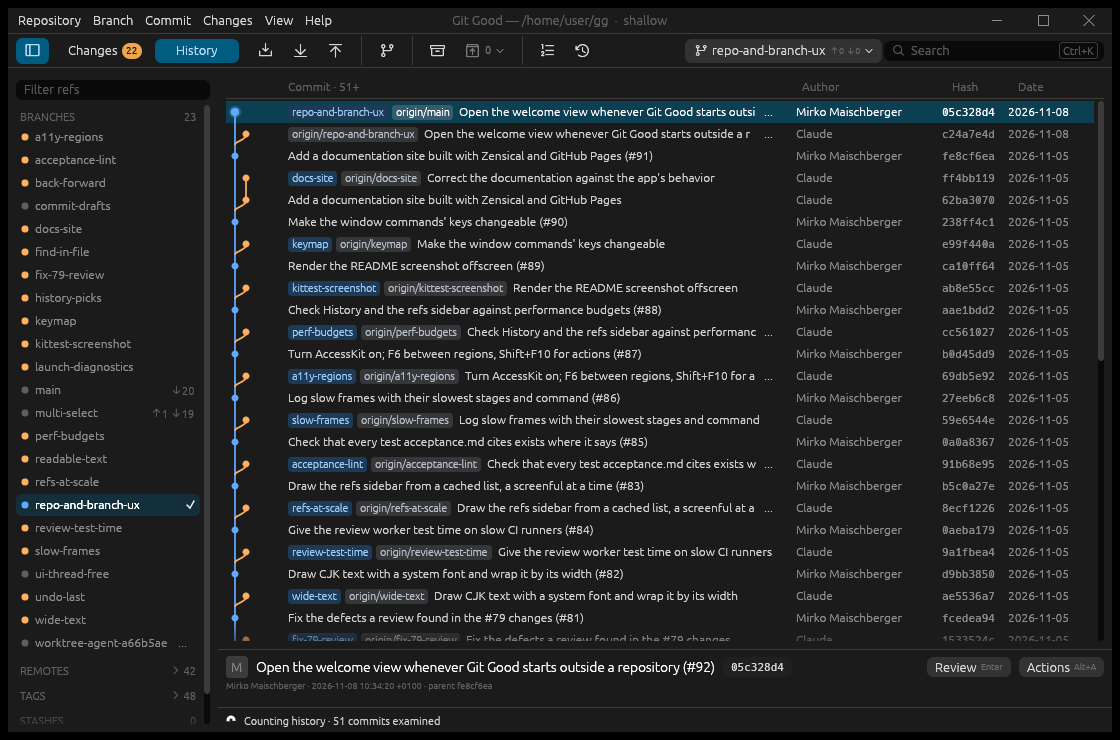
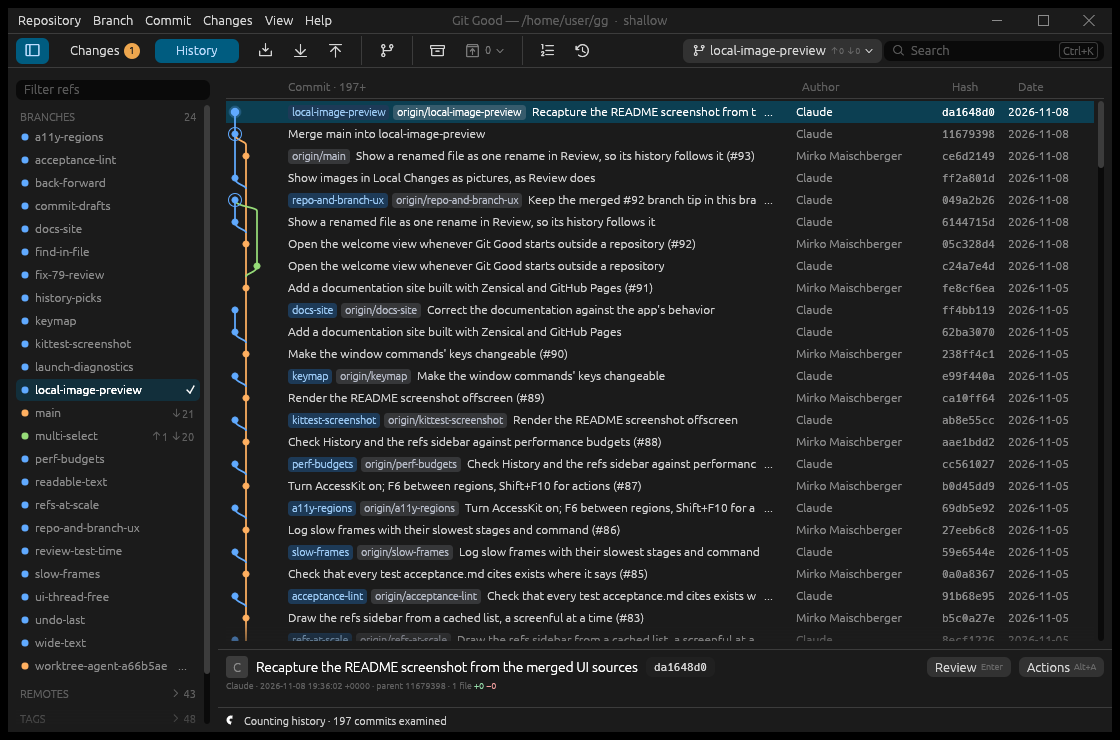
Show images in Local Changes as pictures, as Review does (#94)
* Show images in Local Changes as pictures, as Review does

An untracked docs/images/muffin-farro.jpeg showed "Binary content ·
No inline preview" in Diff and "Binary content" in Full file. The diff
worker built the image preview only for Review, whose sides are blobs.

gg_git::working_diff::preview_bytes now reads a working comparison's
sides (staged: base tree and index; unstaged: index and the working
file; untracked: the working file), and binary_preview::read_working
decodes them, so Local Changes shows the same image comparison. The
header names each side's source: Before HEAD/index, After index/working.

Claude-Session: https://claude.ai/code/session_01WX3sFiNbkTC6gZUVCPGT3o

* Recapture the README screenshot from the merged UI sources

Claude-Session: https://claude.ai/code/session_01WX3sFiNbkTC6gZUVCPGT3o

* Wait for the worktrees window to show its list before reading it

worktrees_window_prunes_missing_and_locks_with_a_reason failed on the
macOS Intel runner: it stopped waiting once the list was loaded, but the
list can arrive after that frame's window was drawn, so the text it
checked showed no window yet. The listing and lock steps now also wait
for a frame that shows "Missing" and "Locked".

Claude-Session: https://claude.ai/code/session_01WX3sFiNbkTC6gZUVCPGT3o

---------

diff --git a/crates/git/src/working_diff.rs b/crates/git/src/working_diff.rs
@@ -288,6 +288,139 @@ fn read_side_inner(
     Ok(side)
 }
 
+/// One side of a working comparison as raw bytes, for the image and
+/// hexadecimal preview of binary files.
+#[derive(Debug, PartialEq, Eq)]
+pub enum PreviewBytes {
+    /// Exact bytes: a blob, or the working file as it is on disk.
+    Bytes(Vec<u8>),
+    /// Nothing on this side, and why.
+    Absent(String),
+    /// Larger than the preview budget; the size in bytes.
+    OverLimit(u64),
+    /// A submodule commit, not file content.
+    Gitlink,
+}
+
+/// Read one side of the selected working comparison for a binary preview,
+/// within `limit` bytes. The sides are those of [`read_side`]: staged
+/// compares the base tree with the index; unstaged the index with the
+/// working file; untracked nothing with the working file. The working file
+/// is read as it is on disk, without Git's filters.
+pub fn preview_bytes(
+    request: &WorkingRequest,
+    side: ReadingSide,
+    limit: u64,
+    cancelled: impl Fn() -> bool,
+) -> std::result::Result<PreviewBytes, String> {
+    preview_bytes_inner(request, side, limit, &cancelled).map_err(|error| {
+        format!(
+            "Read {} of {}: {error}",
+            side.label().to_lowercase(),
+            request.entry.path
+        )
+    })
+}
+
+fn preview_bytes_inner(
+    request: &WorkingRequest,
+    side: ReadingSide,
+    limit: u64,
+    cancelled: &dyn Fn() -> bool,
+) -> Result<PreviewBytes> {
+    if cancelled() {
+        return Err("Read cancelled".into());
+    }
+    let repo = gix::discover(&request.repository.path)?;
+    let relative = gix::path::from_bstr(gix::bstr::BStr::new(&request.entry.path_bytes))?;
+    if relative.as_os_str().is_empty()
+        || relative
+            .components()
+            .any(|part| !matches!(part, Component::Normal(_)))
+    {
+        return Err("Use a repository-relative file path".into());
+    }
+    if request.entry.area == Area::Conflict {
+        return Ok(PreviewBytes::Absent("Unmerged path".into()));
+    }
+    let index = repo.index_or_empty()?;
+    let index_side = index
+        .entry_by_path(gix::bstr::BStr::new(&request.entry.path_bytes))
+        .filter(|entry| {
+            !entry
+                .flags
+                .contains(gix::index::entry::Flags::INTENT_TO_ADD)
+        })
+        .map(|entry| FileSide {
+            id: entry.id.to_string(),
+            mode: entry.mode.bits() as u16,
+        });
+    let blob = |file: Option<FileSide>| -> Result<PreviewBytes> {
+        let Some(file) = file else {
+            return Ok(PreviewBytes::Absent("No content on this side".into()));
+        };
+        if file.mode == 0o160000 {
+            return Ok(PreviewBytes::Gitlink);
+        }
+        let id = gix::ObjectId::from_hex(file.id.as_bytes())?;
+        let size = repo.find_header(id)?.size();
+        if size > limit {
+            return Ok(PreviewBytes::OverLimit(size));
+        }
+        if cancelled() {
+            return Err("Read cancelled".into());
+        }
+        Ok(PreviewBytes::Bytes(repo.find_blob(id)?.data.clone()))
+    };
+    let bytes = match (request.entry.area, side) {
+        (Area::Staged, ReadingSide::Before) => {
+            let tree = if let Some(base) = &request.repository.base_tree {
+                Some(repo.find_tree(gix::ObjectId::from_hex(base.as_bytes())?)?)
+            } else if let Some(head) = &request.repository.head {
+                Some(
+                    repo.find_commit(gix::ObjectId::from_hex(head.as_bytes())?)?
+                        .tree()?,
+                )
+            } else {
+                None
+            };
+            let before = match tree {
+                Some(tree) => tree.lookup_entry_by_path(&relative)?.map(|entry| FileSide {
+                    id: entry.id().to_string(),
+                    mode: entry.mode().value(),
+                }),
+                None => None,
+            };
+            blob(before)?
+        }
+        (Area::Staged, ReadingSide::After) => blob(index_side)?,
+        (Area::Untracked, ReadingSide::Before) => {
+            PreviewBytes::Absent("Untracked: no earlier content".into())
+        }
+        (_, ReadingSide::Before) => blob(index_side)?,
+        (_, ReadingSide::After) => {
+            if index_side
+                .as_ref()
+                .is_some_and(|side| side.mode == 0o160000)
+            {
+                PreviewBytes::Gitlink
+            } else {
+                match capture(&request.repository.path, &relative, Some(limit))? {
+                    None => PreviewBytes::Absent("Working file absent".into()),
+                    Some(captured) if captured.size > limit => {
+                        PreviewBytes::OverLimit(captured.size)
+                    }
+                    Some(captured) => PreviewBytes::Bytes(captured.bytes),
+                }
+            }
+        }
+    };
+    if cancelled() {
+        return Err("Read cancelled".into());
+    }
+    Ok(bytes)
+}
+
 fn read_tree_side(
     request: &WorkingRequest,
     repo: &gix::Repository,

diff --git a/apps/git-good/src/status_view.rs b/apps/git-good/src/status_view.rs
@@ -4911,6 +4911,98 @@ mod tests {
     }
 
     #[test]
+    fn an_untracked_and_a_modified_image_show_their_pictures()
+    -> Result<(), Box<dyn std::error::Error>> {
+        let dir = tempfile::tempdir()?;
+        let p = dir.path();
+        git(p, &["init", "-q"])?;
+        let png = |width: u32, height: u32| -> Result<Vec<u8>, Box<dyn std::error::Error>> {
+            let image =
+                image::RgbaImage::from_pixel(width, height, image::Rgba([200, 120, 40, 255]));
+            let mut bytes = std::io::Cursor::new(Vec::new());
+            image.write_to(&mut bytes, image::ImageFormat::Png)?;
+            Ok(bytes.into_inner())
+        };
+        std::fs::write(p.join("logo.png"), png(3, 2)?)?;
+        git(p, &["add", "logo.png"])?;
+        git(
+            p,
+            &[
+                "-c",
+                "user.name=T",
+                "-c",
+                "user.email=t@t",
+                "commit",
+                "-qm",
+                "Add logo",
+            ],
+        )?;
+        std::fs::write(p.join("logo.png"), png(6, 4)?)?;
+        std::fs::write(p.join("muffin-farro.jpeg"), png(5, 5)?)?;
+        let ctx = egui::Context::default();
+        let mut view = StatusView::new(p.into(), &ctx);
+        settle(&ctx, &mut view, 1120.0);
+        let shown = |view: &mut StatusView| -> Vec<String> {
+            run(&ctx, view, 1120.0, vec![])
+                .shapes
+                .iter()
+                .filter_map(|shape| match &shape.shape {
+                    egui::epaint::Shape::Text(text) => Some(text.galley.job.text.clone()),
+                    _ => None,
+                })
+                .collect()
+        };
+        let wait = |view: &mut StatusView, expected: &[&str]| -> Vec<String> {
+            let mut text = Vec::new();
+            for _ in 0..300 {
+                text = shown(view);
+                if expected
+                    .iter()
+                    .all(|want| text.iter().any(|line| line.contains(want)))
+                {
+                    break;
+                }
+                std::thread::sleep(std::time::Duration::from_millis(10));
+            }
+            text
+        };
+        select_path(&mut view, &ctx, "muffin-farro.jpeg", Area::Untracked);
+        let text = wait(&mut view, &["After working · 5 × 5"]);
+        assert!(
+            text.iter()
+                .any(|line| line.contains("After working · 5 × 5")),
+            "the untracked image is shown: {text:?}"
+        );
+        assert!(
+            !text.iter().any(|line| line.contains("No inline preview")),
+            "{text:?}"
+        );
+        select_path(&mut view, &ctx, "logo.png", Area::Unstaged);
+        let text = wait(
+            &mut view,
+            &["Before index · 3 × 2", "After working · 6 × 4"],
+        );
+        for expected in ["Before index · 3 × 2", "After working · 6 × 4"] {
+            assert!(
+                text.iter().any(|line| line.contains(expected)),
+                "missing {expected:?}: {text:?}"
+            );
+        }
+        git(p, &["add", "logo.png"])?;
+        view.refresh(&ctx);
+        settle(&ctx, &mut view, 1120.0);
+        select_path(&mut view, &ctx, "logo.png", Area::Staged);
+        let text = wait(&mut view, &["Before HEAD · 3 × 2", "After index · 6 × 4"]);
+        for expected in ["Before HEAD · 3 × 2", "After index · 6 × 4"] {
+            assert!(
+                text.iter().any(|line| line.contains(expected)),
+                "missing {expected:?}: {text:?}"
+            );
+        }
+        Ok(())
+    }
+
+    #[test]
     fn staged_away_untracked_entry_keeps_an_empty_comparison()
     -> Result<(), Box<dyn std::error::Error>> {
         let dir = tempfile::tempdir()?;

diff --git a/apps/git-good/src/diff_worker.rs b/apps/git-good/src/diff_worker.rs
@@ -229,21 +229,25 @@ impl Worker {
                         };
                         let result = read(&request, &cancelled);
                         preview = None;
-                        if request.working.is_none()
-                            && result.as_ref().is_ok_and(|diff| {
-                                matches!(
-                                    diff.kind,
-                                    gg_engine::diff::DiffKind::Binary
-                                        | gg_engine::diff::DiffKind::Limited
-                                )
-                            })
-                            && !cancelled()
+                        if result.as_ref().is_ok_and(|diff| {
+                            matches!(
+                                diff.kind,
+                                gg_engine::diff::DiffKind::Binary
+                                    | gg_engine::diff::DiffKind::Limited
+                            )
+                        }) && !cancelled()
                         {
-                            preview = Some(Arc::new(crate::binary_preview::read(
-                                &request.path,
-                                &request.change,
-                                &cancelled,
-                            )));
+                            preview = Some(Arc::new(match &request.working {
+                                // Local Changes: the index and the working file.
+                                Some(working) => {
+                                    crate::binary_preview::read_working(working, &cancelled)
+                                }
+                                None => crate::binary_preview::read(
+                                    &request.path,
+                                    &request.change,
+                                    &cancelled,
+                                ),
+                            }));
                         }
                         if cancelled() {
                             continue;

diff --git a/apps/git-good/src/binary_preview.rs b/apps/git-good/src/binary_preview.rs
@@ -174,6 +174,46 @@ pub fn read(path: &Path, change: &FileChange, cancelled: &dyn Fn() -> bool) -> P
     }
 }
 
+/// The preview sides of a working comparison in Local Changes: the index
+/// or base-tree blob, and the working file as it is on disk.
+pub fn read_working(
+    request: &gg_engine::status::WorkingRequest,
+    cancelled: &dyn Fn() -> bool,
+) -> Pair {
+    use gg_engine::file::ReadingSide;
+    use gg_git::working_diff::PreviewBytes;
+    let load = |side: ReadingSide| {
+        let label = side.label();
+        match gg_git::working_diff::preview_bytes(request, side, ENCODED_LIMIT, cancelled) {
+            Ok(PreviewBytes::Bytes(bytes)) => {
+                let mut preview = decode(&bytes);
+                // No object ID yet: the header names the side instead.
+                preview.id = Some(match (request.entry.area, side) {
+                    (gg_engine::status::Area::Staged, ReadingSide::After) => "index".into(),
+                    (gg_engine::status::Area::Staged, ReadingSide::Before) => "HEAD".into(),
+                    (_, ReadingSide::Before) => "index".into(),
+                    (_, ReadingSide::After) => "working".into(),
+                });
+                preview.bytes = bytes.len() as u64;
+                preview
+            }
+            Ok(PreviewBytes::Absent(_)) => Preview::note(format!("{label} absent")),
+            Ok(PreviewBytes::OverLimit(size)) => {
+                let mut preview =
+                    Preview::note("Preview budget: 16 MiB per side · export for complete content");
+                preview.bytes = size;
+                preview
+            }
+            Ok(PreviewBytes::Gitlink) => Preview::note("Gitlink · referenced commit"),
+            Err(error) => Preview::note(error),
+        }
+    };
+    Pair {
+        before: load(ReadingSide::Before),
+        after: load(ReadingSide::After),
+    }
+}
+
 fn bytes(value: u64) -> String {
     match value {
         0 => "0 B".into(),

diff --git a/apps/git-good/src/main.rs b/apps/git-good/src/main.rs
@@ -21142,7 +21142,11 @@ mod tests {
                 .as_ref()
                 .is_some_and(|window| window.snapshot.is_some() && window.busy.is_none())
         };
-        let text = frames_until(&ctx, &mut app, vec![], listed)?;
+        // The list can arrive after the window drew its frame: wait until a
+        // frame shows it, not just until it is loaded.
+        let text = frames_until(&ctx, &mut app, vec![], |app, text| {
+            listed(app, text) && text.iter().any(|line| line == "Missing")
+        })?;
         for pill in ["Current", "Clean", "Missing"] {
             assert!(text.iter().any(|line| line == pill), "{pill}: {text:?}");
         }
@@ -21175,8 +21179,9 @@ mod tests {
             text.iter().any(|line| line == "Lock worktree")
         })?;
         click_label(&ctx, &mut app, "Lock")?;
-        let text = frames_until(&ctx, &mut app, vec![], |app, _| {
-            listed(app, &[])
+        let text = frames_until(&ctx, &mut app, vec![], |app, text| {
+            listed(app, text)
+                && text.iter().any(|line| line == "Locked")
                 && app
                     .worktree_window
                     .as_ref()

diff --git a/docs/architecture.md b/docs/architecture.md
@@ -177,6 +177,8 @@ Decode PNG/JPEG on the selected-file worker. Bound each side to 16 MiB encoded, 
 
 Image comparison names each side's short blob ID, exact dimensions, encoded bytes, and absent, gitlink, binary, or budget state. Image and other binary readers keep the reader's one header row: the Inline | Side by side slot holds **Side by side | Swipe | Onion skin | Hex** (Hex is the fourth layout, not a checkbox; the choice is remembered with the other image layouts in Preferences › Diff), followed by a **Fit | 1:1** segment; Diff | Full file, Blame and ‹ › are hidden for binary files, while History and ⋯ stay. A side that is not an image disables the image layouts with the reason and shows Hex. Below 800 px of reader width Side by side stacks Before over After and the tabs stay. **Fit** preserves each image's aspect ratio and never upscales; **1:1** shows actual size with scrolling. The Swipe **Boundary** and Onion skin **After opacity** sliders sit in a strip under the canvas, so the header stays one row. Swipe aligns each image by its own dimensions without stretching, clips the After image at a labeled boundary slider that also responds to keyboard arrows, and permits dragging the boundary on the canvas. A theme-aware checkerboard behind both previews exposes transparency. Export remains per side and preserves the complete original bytes.
 
+Local Changes uses the same preview for a binary entry: `gg_git::working_diff::preview_bytes` reads the sides its comparison reads (staged: the base tree's blob and the index blob; unstaged: the index blob and the working file; untracked: nothing and the working file), the working file as it is on disk without Git's filters, within the same 16 MiB per side. With no object ID for these sides, the header names the source instead: `Before HEAD`, `Before index`, `After index`, `After working`.
+
 **Onion skin** is the third presentation: Before is drawn full and After is overlaid at an explicit opacity, initially 50%, with the labeled **After opacity** slider (keyboard-adjustable when focused). It preserves Fit/1:1, per-side dimensions and byte metadata, checkerboard transparency, and per-side export, requires both images (Swipe and Onion skin are disabled with *Needs both Before and After images* otherwise), and centers each at its own size without stretching. When either side is absent the sides stack with their explicit absence state instead of blending. Normal alpha blending is the only mode; difference heatmaps and other blend modes remain separate work.
 
 Export either present blob side to a new user-chosen path, preserving exact bytes. **⋯ › Export before…/after…** opens a modal in the Preferences dialog shape: the title names the side (`Export after version`), a label grid with **File** (the path, mono), **Version** (`After 96274d95 · 22.7 KiB`) and **Save to** with **Browse…** (the native save dialog, suggesting `logo-after.png`), one reserved line under the field for inline errors (`That file already exists. Choose a new name.`), then **Cancel** (`Esc`) beside the filled **Export** (`Enter`), which reads **Exporting…** while busy (Cancel stays and stops it). Success closes the dialog and reports in the window footer: `Exported 23 244 bytes to <path>`. Write a temporary file beside the destination, then publish without overwriting. Keep Git metadata outside export destinations. Export symlink target bytes; gitlinks retain referenced commit IDs. Cancel before object decoding and between 64-KiB writes; remove temporary output on cancellation/failure. Run one export per review view, pin its path/object identity, and cancel on closing the export or review. Escape closes the export window before review navigation resumes. Gitoxide decoding uses memory proportional to the selected object and delta chain; output writes use fixed-size chunks.

diff --git a/docs/verification.md b/docs/verification.md
@@ -963,3 +963,8 @@ Linux x86_64 · Rust 1.97.0 · Mesa lavapipe · Zensical 0.1.0.
 - Review now pairs renames in process with gix's tree diff and rewrite tracking (Git's 50 % similarity), read only when a comparison has an added or deleted file. A first version ran `git diff-tree -M`; the RULE-16 parity test `cherry_picking_two_picked_commits_runs_the_cli_commands` caught the History inspector's review of the picked commit adding that command between the cherry-pick's own, so no Git process is used. On the recipes clone, `git good --cli show HEAD` lists one `renamed` entry, `old_path` `docs/Pane e pizza/Focaccia.md`, both sides `bc8c26da`.
 - `renames_are_one_change_with_the_old_path_as_git_pairs_them` (crates/git/tests/review_special.rs): an exact move and a move with an edit are each one `renamed` change with the source side; an unrelated delete and add stay apart. `a_renamed_file_reviews_as_one_rename_and_its_history_crosses_it` (main.rs) reviews a rename in a folder with spaces, finds `FILES 1` and `R`, presses `H` and finds `FILE HISTORY 3` with `Rename Focaccia← Pane e pizza/Focaccia.md`, `Salt the Focaccia` and `Add Focaccia`.
 
+## Images in Local Changes · 2026-11-08
+
+- Reported with screenshots: an untracked `docs/images/muffin-farro.jpeg` showed *Binary content · No inline preview* in Diff and *Binary content* in Full file. The diff worker built the image preview only for Review, whose sides are blobs; Local Changes sides are the index and the working file.
+- `gg_git::working_diff::preview_bytes` reads those sides and `binary_preview::read_working` decodes them, so Local Changes shows the Review image comparison. `an_untracked_and_a_modified_image_show_their_pictures` (status_view.rs) finds `After working · 5 × 5` for an untracked image, `Before index · 3 × 2` and `After working · 6 × 4` for an unstaged change, and `Before HEAD · 3 × 2` and `After index · 6 × 4` once staged; it fails on the old worker.
+

diff --git a/docs/acceptance.md b/docs/acceptance.md
@@ -1879,6 +1879,16 @@ Layer: product
 - Then each moves to Staged: `d.txt` as `−`, `new.txt` as `+`, `run.sh` staged as 100755, `logo.png` with its new bytes; unrelated entries unchanged
 Covered by (backend, interaction): `whole_file_actions_preserve_unrelated_index_and_working_data` (status_view.rs); `stage_matches_git_add_and_preserves_working_files` (crates/git/tests/status.rs)
 
+### CHG-75 An image in Local Changes shows its picture
+Fixture: `fx-dirty` (`logo.png` modified, staged later), plus an untracked `muffin-farro.jpeg`
+Layer: interaction
+- Given an image file is new (untracked), modified, or staged
+- When the user selects it in Local Changes
+- Then the reader shows the image comparison Review uses (the Side by side | Swipe | Onion skin | Hex layouts with Fit | 1:1), not *Binary content* or *No inline preview*
+- And each side names where it comes from with its dimensions and size: untracked `Before absent` · `After working · 5 × 5`; unstaged `Before index` · `After working`; staged `Before HEAD` · `After index`
+- And the working side is the file as it is on disk, within the 16 MiB preview budget
+Covered by (interaction): `an_untracked_and_a_modified_image_show_their_pictures` (apps/git-good/src/status_view.rs)
+
 ### CHG-17 Unstaging a staged rename restores both halves
 Fixture: `fx-dirty`
 Layer: product

diff --git a/website/docs/workflows/commit.md b/website/docs/workflows/commit.md
@@ -14,6 +14,7 @@ Click **Changes** in the toolbar. The badge counts the changed files; here there
 - **Unstaged** holds changes to tracked files (`~`) and new, untracked files (`?`).
 - **Staged** holds what the next commit will contain.
 - **Stage all** and **Unstage all** move everything; the **+** on a row stages that file.
+- Images (PNG and JPEG) show as pictures, new or changed: side by side, swipe or onion skin, as in [Review](review.md).
 
 ## Stage only what belongs together
 
